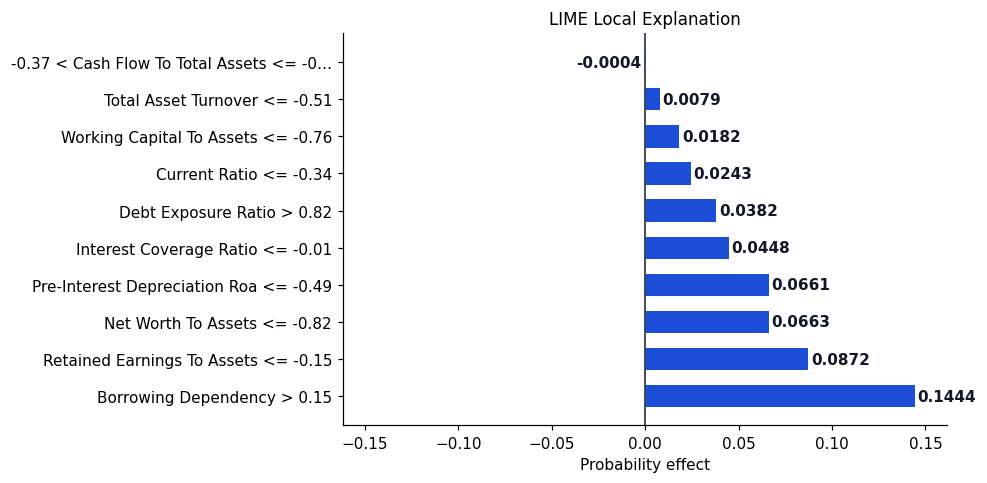
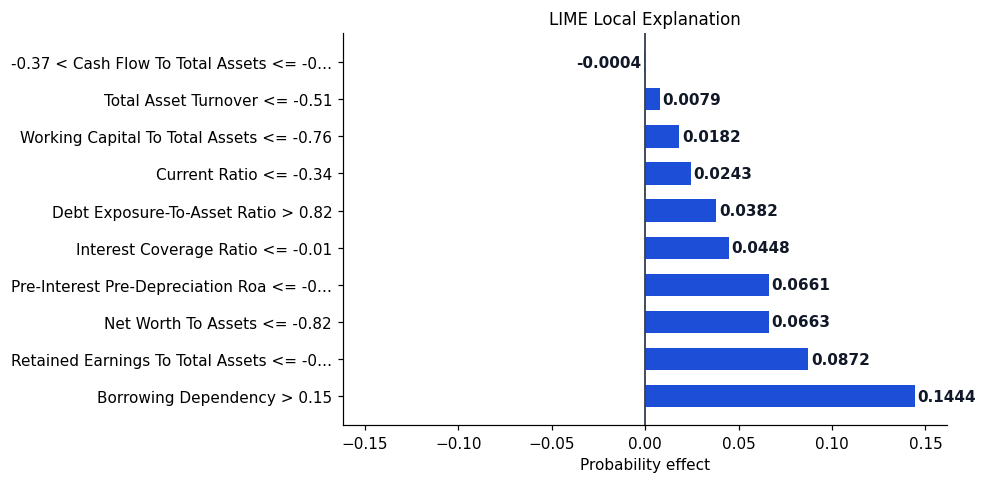
fix feature bug & improve design

diff --git a/frontend/src/pages/Dashboard.jsx b/frontend/src/pages/Dashboard.jsx
@@ -57,39 +57,49 @@ export default function Dashboard() {
 
   // When dataset changes: load list of samples and auto-load first sample (cvision-style so data is visible)
   useEffect(() => {
+    let active = true
+    const targetDataset = dataset
+
     setFeatures(DEMO_FEATURES[dataset].join(', '))
     setPrediction(null)
     setXaiData(null)
     setError(null)
-    if (!apiReady) return
+    if (!apiReady) return () => { active = false }
     if (dataset === 'loan') {
       getLoanSamples(30)
         .then((data) => {
+          if (!active || targetDataset !== 'loan') return null
           const ids = data.loan_ids || []
           if (ids.length) {
             setLoanId(ids[0])
             return getLoanSample(ids[0])
           }
+          return null
         })
         .then((sample) => {
+          if (!active || targetDataset !== 'loan') return
           if (sample?.features?.length) {
             setFeatures(sample.features.join(', '))
             setLoanDetails({ loan_id: sample.loan_id, loan_status: sample.loan_status })
           }
         })
         .catch(() => {
+          if (!active || targetDataset !== 'loan') return
           setFeatures(DEMO_FEATURES.loan.join(', '))
         })
     } else if (dataset === 'bankruptcy') {
       getBankruptcySamples(30)
         .then((data) => {
+          if (!active || targetDataset !== 'bankruptcy') return null
           const names = data.company_names || []
           if (names.length) {
             setCompanyName(names[0])
             return getBankruptcySample(names[0])
           }
+          return null
         })
         .then((sample) => {
+          if (!active || targetDataset !== 'bankruptcy') return
           if (sample?.features?.length) {
             setFeatures(sample.features.join(', '))
           } else {
@@ -97,23 +107,31 @@ export default function Dashboard() {
           }
         })
         .catch(() => {
+          if (!active || targetDataset !== 'bankruptcy') return
           setFeatures(DEMO_FEATURES.bankruptcy.join(', '))
         })
     } else if (dataset === 'credit_risk') {
       getCreditSamples(30)
         .then((data) => {
+          if (!active || targetDataset !== 'credit_risk') return null
           const indices = data.indices || []
           if (indices.length) {
             setCreditIndex(indices[0])
             return getCreditSample(indices[0])
           }
+          return null
         })
         .then((sample) => {
+          if (!active || targetDataset !== 'credit_risk') return
           if (sample?.features?.length) setFeatures(sample.features.join(', '))
         })
         .catch(() => {
+          if (!active || targetDataset !== 'credit_risk') return
           setFeatures(DEMO_FEATURES.credit_risk.join(', '))
         })
+    }
+    return () => {
+      active = false
     }
   }, [dataset, apiReady])
 
@@ -126,6 +144,11 @@ export default function Dashboard() {
       const f = features.split(/[\s,]+/).map((s) => parseFloat(s.trim())).filter((n) => !Number.isNaN(n))
       if (!f.length) {
         throw new Error('Load a sample from the dataset first.')
+      }
+      const expected = featureCounts?.[dataset]
+      if (Number.isFinite(expected) && f.length !== expected) {
+        setFeatures(DEMO_FEATURES[dataset].join(', '))
+        throw new Error(`Wrong feature count: this model expects ${expected} features but you sent ${f.length}.`)
       }
       const [predRes, xaiRes] = await Promise.all([
         predict({ dataset, features: f, model_type: 'rf' }),
@@ -144,7 +167,7 @@ export default function Dashboard() {
     } finally {
       setLoading(false)
     }
-  }, [dataset, features, method, loanId])
+  }, [dataset, features, method, loanId, featureCounts])
 
   const runXAI = useCallback(async () => {
     setError(null)
@@ -154,6 +177,11 @@ export default function Dashboard() {
       const f = features.split(/[\s,]+/).map((s) => parseFloat(s.trim())).filter((n) => !Number.isNaN(n))
       if (!f.length) {
         throw new Error('Load a sample from the dataset first.')
+      }
+      const expected = featureCounts?.[dataset]
+      if (Number.isFinite(expected) && f.length !== expected) {
+        setFeatures(DEMO_FEATURES[dataset].join(', '))
+        throw new Error(`Wrong feature count: this model expects ${expected} features but you sent ${f.length}.`)
       }
       const res = await getXAI({
         dataset,
@@ -171,7 +199,7 @@ export default function Dashboard() {
     } finally {
       setLoading(false)
     }
-  }, [dataset, features, method])
+  }, [dataset, features, method, featureCounts])
 
   const isExpert = true
   const probabilityLabelsByDataset = {
@@ -190,35 +218,33 @@ export default function Dashboard() {
     : 'User-friendly explanations of AI predictions. Choose your prediction type and explanation style to understand how decisions are made.'
 
   return (
-    <div className="min-h-screen bg-gray-50">
-      <header className="bg-white">
-        <div className="mx-auto max-w-6xl px-4 py-4">
-          <h1 className="text-2xl font-bold text-slate-900">
+    <div className="min-h-screen bg-gradient-to-b from-emerald-50/60 via-cyan-50/20 to-white">
+      <header className="bg-gradient-to-r from-emerald-600 via-teal-600 to-cyan-600 shadow-sm">
+        <div className="mx-auto max-w-6xl px-4 py-5">
+          <h1 className="font-display text-3xl font-extrabold tracking-tight text-white drop-shadow-sm md:text-4xl">
             Financial Model Explainability Platform
           </h1>
-          <p className="mt-1 text-sm text-gray-500">
+          <p className="mt-1 text-sm text-emerald-50/95">
             Advanced AI Interpretability Tools for Economic Finance
           </p>
         </div>
       </header>
 
-      <main className="mx-auto max-w-6xl px-4 py-6">
-        <section className="mb-6 rounded-xl border border-gray-200 bg-white p-5 shadow-sm">
-          <h2 className="mb-1 text-lg font-semibold text-slate-900">
-            {isExpert ? 'Expert Analysis Dashboard' : 'Simplified Analysis Interface'}
+      <main className="mx-auto max-w-6xl px-4 py-8">
+        <section className="mb-6 rounded-2xl border-2 border-slate-200 bg-white p-6 shadow-sm ring-1 ring-slate-100">
+          <h2 className="font-display mb-1 text-lg font-semibold text-slate-900 md:text-xl">
+            {title}
           </h2>
           <p className="mb-4 text-sm text-slate-600">
-            {isExpert
-              ? 'Advanced model interpretation tools for financial professionals. Select your prediction model and explainability method to generate detailed technical insights.'
-              : 'User-friendly explanations of AI predictions. Choose your prediction type and explanation style to understand how decisions are made.'}
+            {subtitle}
           </p>
           <div className="grid gap-4 sm:grid-cols-2">
             <div>
-              <label className="mb-1 block text-sm font-medium text-gray-700">Prediction Model</label>
+              <label className="mb-1 block text-xs font-semibold uppercase tracking-wider text-slate-600">Prediction Model</label>
               <select
                 value={dataset}
                 onChange={(e) => setDataset(e.target.value)}
-                className="w-full rounded-lg border border-gray-300 px-3 py-2 text-sm focus:border-primary-500 focus:outline-none focus:ring-1 focus:ring-primary-500"
+                className="w-full rounded-lg border border-slate-300 bg-white px-3 py-2 text-sm shadow-sm focus:border-emerald-500 focus:outline-none focus:ring-2 focus:ring-emerald-200"
               >
                 {Object.entries(DATASET_LABELS).map(([value, label]) => (
                   <option key={value} value={value}>{label}</option>
@@ -226,11 +252,11 @@ export default function Dashboard() {
               </select>
             </div>
             <div>
-              <label className="mb-1 block text-sm font-medium text-gray-700">Explainability Method</label>
+              <label className="mb-1 block text-xs font-semibold uppercase tracking-wider text-slate-600">Explainability Method</label>
               <select
                 value={method}
                 onChange={(e) => setMethod(e.target.value)}
-                className="w-full rounded-lg border border-gray-300 px-3 py-2 text-sm focus:border-primary-500 focus:outline-none focus:ring-1 focus:ring-primary-500"
+                className="w-full rounded-lg border border-slate-300 bg-white px-3 py-2 text-sm shadow-sm focus:border-emerald-500 focus:outline-none focus:ring-2 focus:ring-emerald-200"
               >
                 {METHOD_OPTIONS.map((m) => (
                   <option key={m} value={m}>{m}</option>
@@ -243,17 +269,17 @@ export default function Dashboard() {
               type="button"
               onClick={runAnalyze}
               disabled={loading}
-              className="rounded-lg bg-primary-700 px-4 py-2 text-sm font-medium text-white hover:bg-primary-800 disabled:opacity-50"
+              className="rounded-lg bg-gradient-to-r from-emerald-600 to-teal-600 px-4 py-2 text-sm font-semibold text-white shadow-sm transition hover:from-emerald-700 hover:to-teal-700 disabled:opacity-50"
             >
-              {loading ? 'Analyzing...' : 'Analyze'}
+              {loading ? 'Analyzing...' : 'Run Analysis'}
             </button>
           </div>
           {error && <p className="mt-2 text-sm text-red-600">{error}</p>}
         </section>
 
         {prediction && (
-          <section className="mb-6 rounded-xl border border-gray-200 bg-white p-5 shadow-sm">
-            <h2 className="mb-4 text-lg font-bold text-slate-900">
+          <section className="mb-6 rounded-2xl border-2 border-emerald-200/80 bg-gradient-to-r from-emerald-50/40 to-cyan-50/30 p-6 shadow-sm ring-1 ring-emerald-100/80">
+            <h2 className="font-display mb-4 text-lg font-bold text-slate-900 md:text-xl">
               {dataset === 'loan' ? 'Loan Details' : dataset === 'credit_risk' ? 'Credit Details' : 'Company Details'}
             </h2>
             <div className="flex flex-wrap items-baseline gap-x-8 gap-y-1">
@@ -279,8 +305,8 @@ export default function Dashboard() {
           </section>
         )}
 
-        <section className="rounded-xl border border-gray-200 bg-white p-5 shadow-sm">
-          <h2 className="mb-1 text-lg font-bold text-slate-900">
+        <section className="rounded-2xl border-2 border-slate-200 bg-white p-6 shadow-sm ring-1 ring-slate-100">
+          <h2 className="font-display mb-1 text-lg font-bold text-slate-900 md:text-xl">
             {method === 'SHAP' ? 'SHAP Analysis' : method === 'LIME' ? 'LIME Analysis' : method === 'DiCE' ? 'DiCE Counterfactuals' : 'Explanation'}
           </h2>
           <p className="mb-4 text-sm text-gray-600">
@@ -297,8 +323,8 @@ export default function Dashboard() {
           {method === 'SHAP' && (
             <>
               {xaiData?.image_url ? (
-                <div className="rounded-lg border border-gray-200 bg-white p-4 shadow-sm">
-                  <h3 className="mb-3 text-sm font-semibold text-gray-700">
+                <div className="rounded-lg border-2 border-slate-200 bg-white p-4 shadow-sm ring-1 ring-slate-100">
+                  <h3 className="font-display mb-3 text-sm font-semibold text-gray-700">
                     {isExpert ? 'Global Feature Importance - Loan Approval Model (Expert View)' : 'What most affected the loan decision (Non-Expert View)'}
                   </h3>
                   <img
@@ -315,8 +341,8 @@ export default function Dashboard() {
           {method === 'LIME' && (
             <>
               {xaiData?.image_url ? (
-                <div className="rounded-lg border border-gray-200 bg-white p-4 shadow-sm">
-                  <h3 className="mb-3 text-sm font-semibold text-gray-700">
+                <div className="rounded-lg border-2 border-slate-200 bg-white p-4 shadow-sm ring-1 ring-slate-100">
+                  <h3 className="font-display mb-3 text-sm font-semibold text-gray-700">
                     {isExpert ? 'LIME local explanation (Expert View)' : 'Local explanation (Non-Expert View)'}
                   </h3>
                   <img
@@ -326,7 +352,7 @@ export default function Dashboard() {
                   />
                   {prediction && positiveProbability != null && (
                     <div className="mt-5 border-t border-gray-200 pt-4">
-                      <div className="mx-auto w-full max-w-xl rounded-2xl border border-slate-200 bg-gradient-to-b from-white via-slate-50 to-white p-6 shadow-sm">
+                      <div className="mx-auto w-full max-w-xl rounded-2xl border-2 border-slate-200 bg-gradient-to-b from-white via-slate-50 to-white p-6 shadow-sm ring-1 ring-slate-100">
                         <div>
                           <div>
                             <h3 className="text-base font-semibold tracking-wide text-slate-800">Class probabilities</h3>
@@ -374,7 +400,7 @@ export default function Dashboard() {
           )}
           {method === 'DiCE' && <DiCEPanel data={xaiData} />}
           {!xaiData && !loading && (
-            <p className="rounded-lg border border-dashed border-gray-200 bg-gray-50 p-4 text-center text-sm text-gray-500">
+            <p className="rounded-lg border-2 border-dashed border-slate-300 bg-slate-50 p-4 text-center text-sm text-gray-500">
               Choose options above and run analysis to see the chart.
             </p>
           )}

diff --git a/frontend/src/App.jsx b/frontend/src/App.jsx
@@ -1,8 +1,7 @@
 import { useState, useEffect } from 'react'
-import { BrowserRouter, Routes, Route, NavLink } from 'react-router-dom'
+import { BrowserRouter, Routes, Route } from 'react-router-dom'
 import { ExpertiseProvider } from './context/ExpertiseContext'
 import Dashboard from './pages/Dashboard'
-import Survey from './pages/Survey'
 import { getReady } from './api/client'
 
 function LoadingOverlay({ done, total, current }) {
@@ -72,38 +71,8 @@ function App() {
         <LoadingOverlay done={progress.done} total={progress.total} current={progress.current} />
       )}
       <BrowserRouter>
-        <nav className="border-b border-gray-200 bg-white px-4 py-3 shadow-sm">
-          <div className="mx-auto flex max-w-6xl gap-3">
-            <NavLink
-              to="/"
-              end
-              className={({ isActive }) =>
-                `rounded-lg px-4 py-2 text-lg font-semibold transition-colors ${
-                  isActive
-                    ? 'bg-blue-50 text-blue-700 border border-blue-200'
-                    : 'text-gray-600 hover:bg-gray-50 hover:text-gray-900 border border-transparent'
-                }`
-              }
-            >
-              Dashboard
-            </NavLink>
-            <NavLink
-              to="/survey"
-              className={({ isActive }) =>
-                `rounded-lg px-4 py-2 text-lg font-semibold transition-colors ${
-                  isActive
-                    ? 'bg-blue-50 text-blue-700 border border-blue-200'
-                    : 'text-gray-600 hover:bg-gray-50 hover:text-gray-900 border border-transparent'
-                }`
-              }
-            >
-              Survey
-            </NavLink>
-          </div>
-        </nav>
         <Routes>
           <Route path="/" element={<Dashboard />} />
-          <Route path="/survey" element={<Survey />} />
         </Routes>
       </BrowserRouter>
     </ExpertiseProvider>

diff --git a/frontend/src/index.css b/frontend/src/index.css
@@ -2,7 +2,13 @@
 @tailwind components;
 @tailwind utilities;
 
+@import url('https://fonts.googleapis.com/css2?family=Plus+Jakarta+Sans:wght@400;500;600;700;800&family=Sora:wght@600;700;800&display=swap');
+
 body {
-  font-family: 'Inter', system-ui, sans-serif;
+  font-family: 'Plus Jakarta Sans', 'Inter', system-ui, sans-serif;
   @apply bg-white text-gray-900 antialiased;
+}
+
+.font-display {
+  font-family: 'Sora', 'Plus Jakarta Sans', 'Inter', system-ui, sans-serif;
 }
